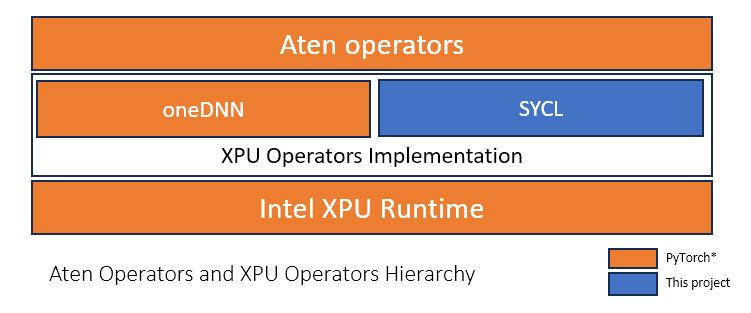
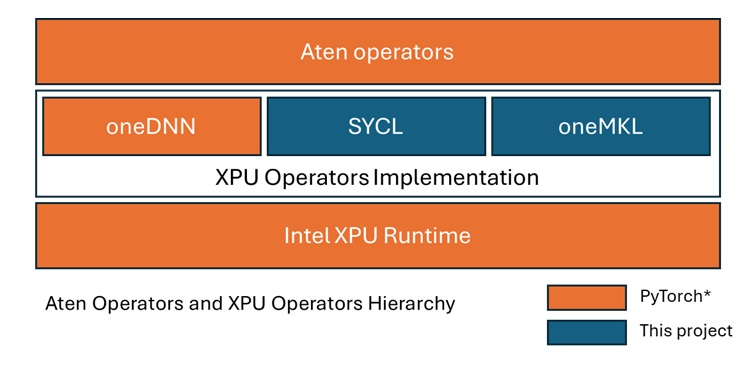
doc: improve readme
Fixes: #1731

diff --git a/README.md b/README.md
@@ -1,14 +1,24 @@
 # Torch XPU Operators*
 
-Torch XPU Operators* implements PyTorch ATen operators for Intel GPU devices, aiming to agilely support PyTorch ATen operations and buffer these operations for Intel GPU upstreaming . For more details, refer to [SYCL kernels for ATen Operators RFC](https://github.com/pytorch/pytorch/issues/114835) for more details.
+Torch XPU Operators* project is an integral part of [PyTorch](https://github.com/pytorch/pytorch) to support XPU acceleration backend. The PyTorch build system automatically clones this repository at the pin pointed commit, branch, or tag specified in the following file of the [PyTorch repository](https://github.com/pytorch/pytorch):
 
-## Overview
+* https://github.com/pytorch/pytorch/blob/main/third_party/xpu.txt
 
- <p align="center">
-     <img src="docs/torch_xpu_ops.jpg" width="100%">
- </p>
+Cloned copy becomes available at `./third_party/torch-xpu-ops/` relative to the root of the checked out PyTorch tree.
 
- * SYCL Implementation for XPU Operators: The Operators in this staging branch will finally be upstreamed to PyTorch for Intel GPU.
+Torch XPU Operators* implements some of the operators for Intel GPU devices accessible via PyTorch XPU acceleration backend:
+
+* PyTorch ATen operators
+* Torchvision operators
+
+<p align="center">
+    <img src="docs/torch_xpu_ops.jpg" width="100%">
+</p>
+
+Most operators are implemented as SYCL kernels, the sources of which are available in this repository. Some operators (linear algebra)
+are implemented through calls to the [Intel® oneAPI Math Kernel Library (oneMKL)](https://www.intel.com/content/www/us/en/developer/tools/oneapi/onemkl.html).
+
+Note that a few operators (convolution and matrix-matrix multiplication (`gemm`)) for the PyTorch XPU backend are implemented directly in PyTorch sources through calls to the [oneAPI Deep Neural Network Library (oneDNN)](https://github.com/uxlfoundation/oneDNN). These sources can be found in the PyTorch repository at https://github.com/pytorch/pytorch/tree/main/aten/src/ATen/native/mkldnn/xpu.
 
 ## Requirements
 
@@ -17,14 +27,78 @@ For the hardware and software prerequiste, please refer to [PyTorch Prerequisite
 * Intel GPU Driver: Install Intel GPU drivers along with compute and media runtimes and development packages.
 * Intel® Deep Learning Essentials: Install a subset of Intel® oneAPI components needed for building and running PyTorch.
 
-## Build
+## Build and install
 
-Need to built this project as a submodule of PyTorch, after install Intel GPU Driver and Intel Deep Learning Essentials.
+This project cannot be built or installed as a stand-alone. This project gets built when PyTorch is built with XPU backend support.
+
+**To install PyTorch with XPU backend from pre-built binary packages**, use one of the available distribution channels:
+
+* For release builds:
+
+```
+pip3 install torch torchvision torchaudio --index-url https://download.pytorch.org/whl/xpu
+```
+
+* For nightly builds
+
+```
+pip3 install --pre torch torchvision torchaudio --index-url https://download.pytorch.org/whl/nightly/xpu
+```
+
+**To build PyTorch with XPU backend from sources**, refer to the [Intel GPU Support](https://github.com/pytorch/pytorch/blob/main/README.md#intel-gpu-support) section of the [PyTorch documentation](https://github.com/pytorch/pytorch/blob/main/README.md#from-source). In summary, the PyTorch build for XPU backend can be triggered as follows:
 
 ```bash
-# Setup PyTorch source project. torch-xpu-ops is included by default.
-python setup.py install
+git clone https://github.com/pytorch/pytorch.git && cd pytorch
+pip install -r requirements.txt
+python setup.py install >log.txt 2>&1
 ```
+
+Look for the following lines in the log file indicating that XPU backend is being built:
+
+```
+$ cat log.txt | grep -E "(USE_XPU|USE_XCCL)\s*:"
+--   USE_XPU               : 1
+--   USE_XCCL              : ON
+```
+
+If building from sources, note the following environment variables which control the PyTorch XPU backend build:
+
+| Environment variable | Default | Notes |
+| --- | --- | --- |
+| `USE_XPU` | `ON` | Enables XPU backend support |
+| `USE_XCCL` | `ON` (>= PT2.8) | Enables XCCL distributed backend support |
+| `TORCH_XPU_ARCH_LIST` | depends on the PT and OS versions | Build SYCL kernels for specified platform(s) |
+
+The `TORCH_XPU_ARCH_LIST` allows to specify a comma separated list of platforms for which SYCL kernels will be built. This helps to reduce the build time. This option does not affect oneDNN- or oneMKL-based operators. Note that if PyTorch is executed on a platform that the SYCL kernels were not built for, then they are compiled just-in-time (JIT).
+
+## Verification
+
+Once PyTorch is built or installed, verify that PyTorch XPU backend is available as follows:
+
+```
+$ python3 -c "import torch; print(torch.xpu.is_available())"
+True
+python3 -c "import torch; print(torch.distributed.distributed_c10d.is_xccl_available())"
+True
+```
+
+# FAQ
+
+Some confusion might arise about relationship of this repostory and PyTorch XPU backend in general with [Intel® Extension for PyTorch (IPEX)](https://github.com/intel/intel-extension-for-pytorch). See answers on that below.
+
+**Does the PyTorch XPU backend implementation use IPEX?**
+
+No. PyTorch XPU backend implementation does not use IPEX and can be used without IPEX levaraging:
+
+- Standard PyTorch API to access eager mode operators, compile modules (including Triton kernels), profiling, etc.
+- SYCL kernels to enhance applications with custom operators via PyTorch CPP Extension API
+
+**Does IPEX depend on this repository through the PyTorch XPU backend implementation?**
+
+Yes. IPEX relies on the PyTorch XPU backend implementation (which includes this repository) and augments it with additional features and operators.
+Moreover, IPEX implements select features and operators outside of standard PyTorch API that are required in popular AI frameworks such as vLLM, Huggingface TGI, SGLang, and others.
+The ultimate long term goal is to upstream or substitute with better upstream implementations as much of IPEX code as possible.
+Each subsequent IPEX release is a step toward that goal as fewer features are being implemented in IPEX and more are instead taken from other upstream projects.
 
 ## Security
 See Intel's [Security Center](https://www.intel.com/content/www/us/en/security-center/default.html) for information on how to report a potential security issue or vulnerability.
